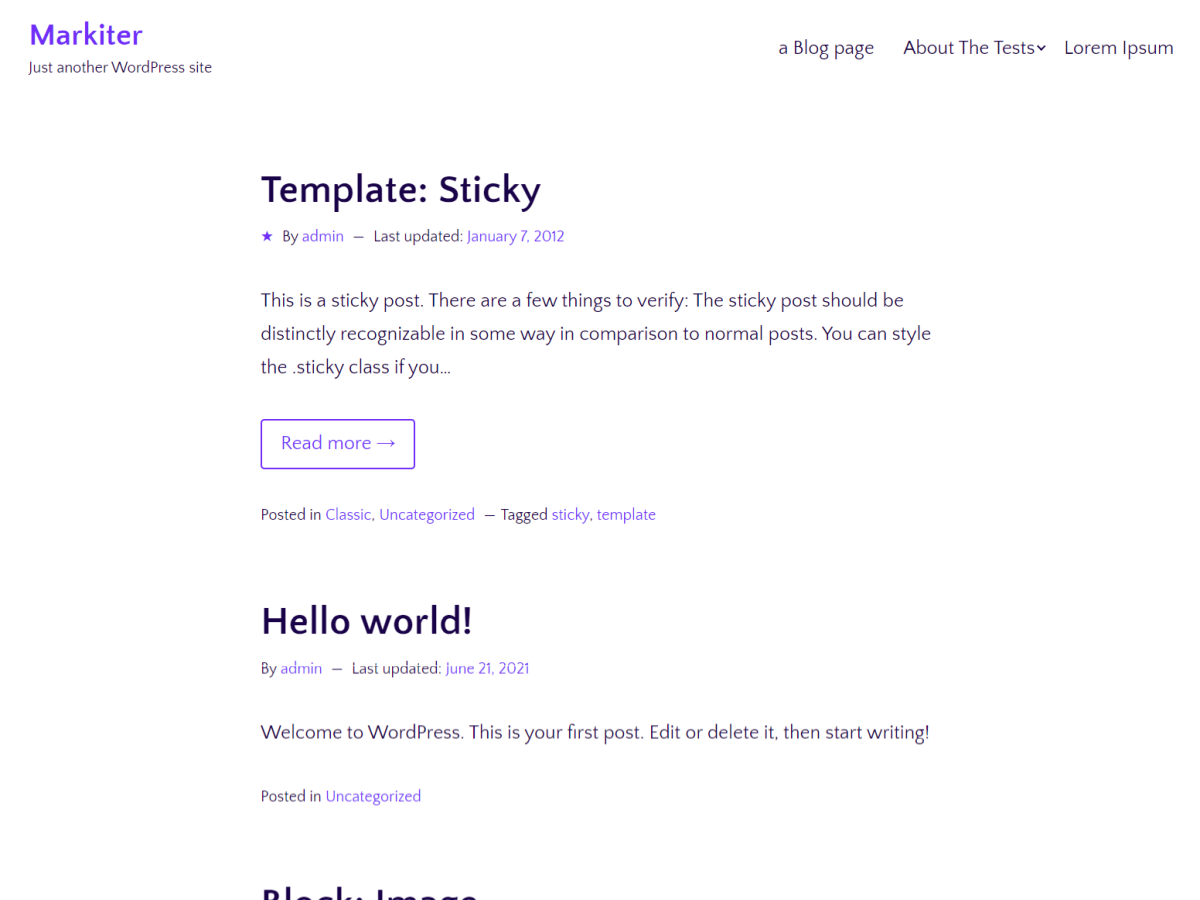
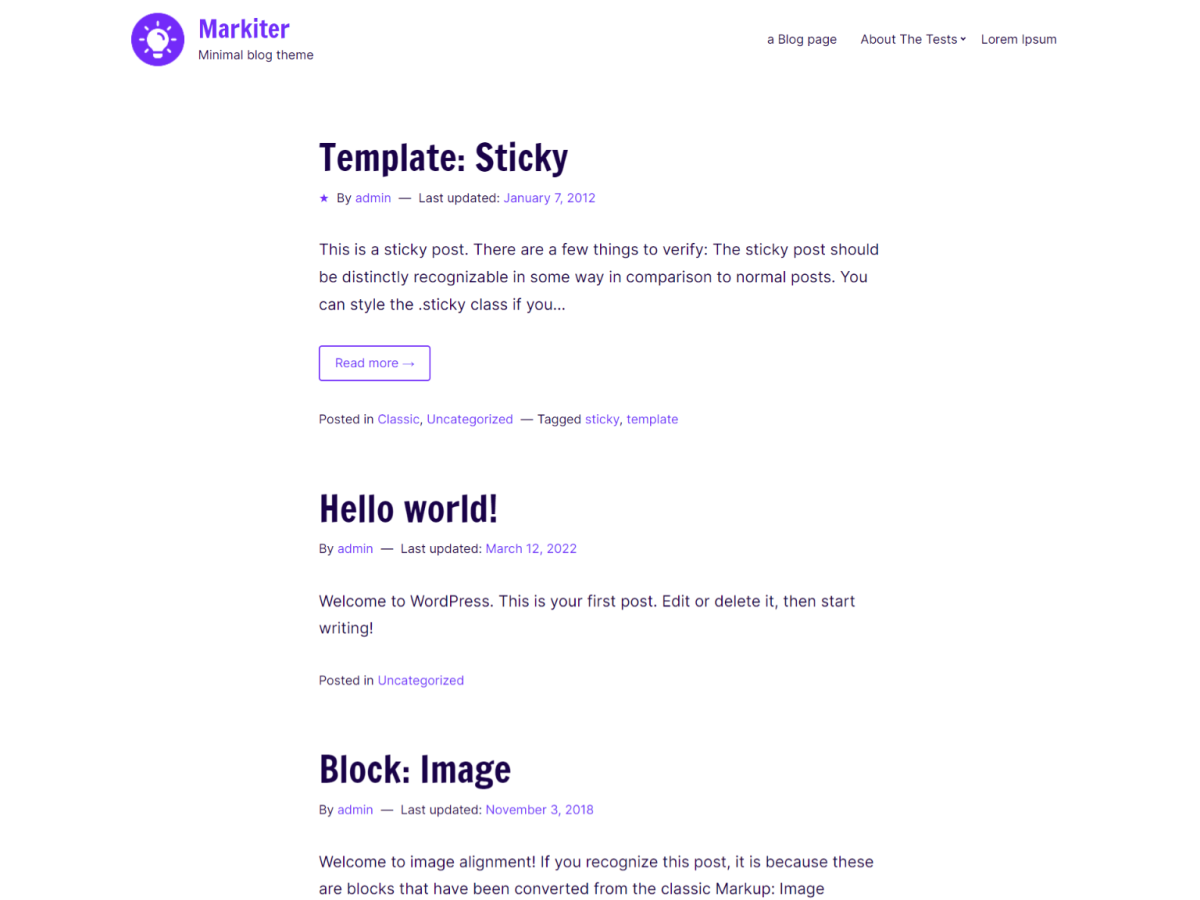
v2.3.4

diff --git a/style.css b/style.css
@@ -1,7 +1,7 @@
 @charset "UTF-8";
 /**
  * Theme name: 		Markiter
- * Version:			2.3.2
+ * Version:			2.3.4
  * Description:		Minimal theme for marketers & bloggers.
  * Tags: 			blog, one-column, sticky-post, accessibility-ready, translation-ready, custom-menu, editor-style, custom-colors, custom-logo, threaded-comments, block-styles, wide-blocks, footer-widgets, featured-images
  * Text domain: 	markiter
@@ -145,7 +145,7 @@ button, input, select, textarea {
   border-radius: 0.2rem;
   color: var(--markiter-fg-color);
   display: inline-block;
-  font-family: "Quattrocento Sans", serif;
+  font-family: "Inter", sans-serif;
   font-size: var(--markiter-normal-font-size);
   line-height: 1.75;
   padding: 0.4375rem 0.75rem;
@@ -189,7 +189,7 @@ textarea {
 body {
   background-color: var(--markiter-bg-color);
   color: var(--markiter-fg-color);
-  font-family: "Quattrocento Sans", serif;
+  font-family: "Inter", sans-serif;
   font-size: var(--markiter-normal-font-size);
   line-height: 1.75;
 }
@@ -275,7 +275,7 @@ figure img, .wp-caption img {
 }
 
 h1, h2, h3, h4, h5, h6 {
-  font-weight: bold;
+  font-family: "Francois One", serif;
 }
 
 h1, h2, h3 {
@@ -323,7 +323,7 @@ table td, table th {
  * -----------------------------------------------------------------------------
  */
 a {
-  border-bottom: 1px solid var(--markiter-accent-color);
+  border-bottom: 2px solid var(--markiter-accent-color);
   color: var(--markiter-accent-color);
   text-decoration: none;
 }
@@ -955,7 +955,7 @@ figure.wp-block-image img, .wp-block-image.wp-caption img {
   --markiter-normal-font-size: 1rem;
   --markiter-medium-font-size: 1.25rem;
   --markiter-large-font-size: 1.6rem;
-  --markiter-extra-large-font-size: 2.05rem;
+  --markiter-extra-large-font-size: 2.35rem;
 }
 
 /**
@@ -1000,7 +1000,7 @@ figure.wp-block-image img, .wp-block-image.wp-caption img {
  * -----------------------------------------------------------------------------
  */
 .site-footer {
-  border-top: 1px solid var(--markiter-border-color);
+  background-color: var(--markiter-alt-bg-color);
   font-size: var(--markiter-small-font-size);
 }
 .site-footer a {
@@ -1037,8 +1037,8 @@ figure.wp-block-image img, .wp-block-image.wp-caption img {
 }
 
 .site-title {
+  font-family: "Francois One", serif;
   font-size: var(--markiter-large-font-size);
-  font-weight: bold;
   line-height: 1.25;
 }
 
@@ -1095,6 +1095,9 @@ figure.wp-block-image img, .wp-block-image.wp-caption img {
 .main-navigation li {
   margin-bottom: 0;
   margin-top: 0;
+}
+.main-navigation li.current-menu-item > a, .main-navigation li.current-menu-parent > a {
+  font-weight: bold;
 }
 .main-navigation a {
   border-bottom: none;
@@ -1368,19 +1371,50 @@ figure.wp-block-image img, .wp-block-image.wp-caption img {
  * -----------------------------------------------------------------------------
  */
 .footer-widgets {
+  border-bottom: dotted 1px var(--markiter-bg-color);
   padding: 1.75rem;
+  padding-top: 3.5rem;
 }
-.footer-widgets .widget-title {
+@media (min-width: 768px) {
+  .footer-widgets .footer-widgets-wrap {
+    margin-left: auto;
+    margin-right: auto;
+    max-width: 63.5rem;
+    padding-left: 1.75rem;
+    padding-right: 1.75rem;
+    align-items: flex-start;
+    display: flex;
+    flex-direction: row;
+    justify-content: space-between;
+  }
+}
+.footer-widgets .widget-title, .footer-widgets h1, .footer-widgets h2, .footer-widgets h3, .footer-widgets h4, .footer-widgets h5, .footer-widgets h6 {
   margin-bottom: 0.4375rem;
+  font-size: var(--markiter-medium-font-size);
 }
-.footer-widgets .widget-title:last-child {
+.footer-widgets .widget-title:last-child, .footer-widgets h1:last-child, .footer-widgets h2:last-child, .footer-widgets h3:last-child, .footer-widgets h4:last-child, .footer-widgets h5:last-child, .footer-widgets h6:last-child {
   margin-bottom: 0;
+}
+.footer-widgets .widget {
+  margin-bottom: 1.75rem;
+}
+.footer-widgets .widget:last-child {
+  margin-bottom: 0;
+}
+@media (min-width: 768px) {
+  .footer-widgets .widget {
+    flex-basis: 0;
+    flex-grow: 1;
+    margin-right: 1.75rem;
+  }
+  .footer-widgets .widget:last-child {
+    margin-right: 0;
+  }
 }
 .footer-widgets .widget ol, .footer-widgets .widget ul {
   list-style: none;
-}
-.footer-widgets .widget > ol, .footer-widgets .widget > ul {
-  padding-left: 0;
+  margin: 0;
+  padding: 0;
 }
 
 /**
@@ -1390,9 +1424,9 @@ figure.wp-block-image img, .wp-block-image.wp-caption img {
 .pagination {
   margin-left: auto;
   margin-right: auto;
-  max-width: 36rem;
-  padding-left: 0;
-  padding-right: 0;
+  max-width: 39.5rem;
+  padding-left: 1.75rem;
+  padding-right: 1.75rem;
 }
 .pagination .page-numbers {
   background-color: var(--markiter-alt-bg-color);

diff --git a/scss/style.scss b/scss/style.scss
@@ -1,6 +1,6 @@
 /**
  * Theme name: 		Markiter
- * Version:			2.3.3
+ * Version:			2.3.4
  * Description:		Minimal theme for marketers & bloggers.
  * Tags: 			blog, one-column, sticky-post, accessibility-ready, translation-ready, custom-menu, editor-style, custom-colors, custom-logo, threaded-comments, block-styles, wide-blocks, footer-widgets, featured-images
  * Text domain: 	markiter
@@ -78,7 +78,7 @@
  * -----------------------------------------------------------------------------
  */
 .site-footer {
-	border-top: 1px solid get-color( border );
+	background-color: get-color( alt-bg );
 	font-size: get-font-size( small );
 
 	a {
@@ -113,8 +113,8 @@
 }
 
 .site-title {
+	font-family: $heading-font;
 	font-size: get-font-size( large );
-	font-weight: bold;
 	line-height: $heading-line-height;
 }
 
@@ -172,6 +172,11 @@
 	li {
 		margin-bottom: 0;
 		margin-top: 0;
+
+		&.current-menu-item > a,
+		&.current-menu-parent > a {
+			font-weight: bold;
+		}
 	}
 
 	a {
@@ -468,19 +473,42 @@
 }
 
 .footer-widgets {
+	border-bottom: dotted 1px get_color( bg );
 	padding: $white-space;
+	padding-top: $white-space * 2;
 
-	.widget-title {
+	.footer-widgets-wrap {
+		@include when-screen( md ) {
+			@include make-container( $container-extra-wide-max-width, $gutter-width / 2 );
+			align-items: flex-start;
+			display: flex;
+			flex-direction: row;
+			justify-content: space-between;
+		}
+	}
+
+	.widget-title, h1, h2, h3, h4, h5, h6 {
 		@include make-block( $white-space / 4 );
+		font-size: get-font-size( medium );
 	}
 
 	.widget {
-		ol, ul {
-			list-style: none;
+		@include make-block( $white-space );
+
+		@include when-screen( md ) {
+			flex-basis: 0;
+			flex-grow: 1;
+			margin-right: $white-space;
+
+			&:last-child {
+				margin-right: 0;
+			}
 		}
 
-		& > ol, & > ul {
-			padding-left: 0;
+		ol, ul {
+			list-style: none;
+			margin: 0;
+			padding: 0;
 		}
 	}
 }
@@ -490,7 +518,7 @@
  * -----------------------------------------------------------------------------
  */
 .pagination {
-	@include make-container( $container-max-width - $gutter-width, 0 );
+	@include make-container( $container-max-width, $white-space );
 
 	.page-numbers {
 		background-color: get-color( alt-bg );

diff --git a/style-editor.css b/style-editor.css
@@ -36,7 +36,7 @@
 }
 .editor-styles-wrapper > * {
   color: var(--markiter-fg-color);
-  font-family: "Quattrocento Sans", serif;
+  font-family: "Inter", sans-serif;
   font-size: var(--markiter-normal-font-size);
   line-height: 1.75;
 }
@@ -140,7 +140,7 @@
 .editor-styles-wrapper h4.wp-block,
 .editor-styles-wrapper h5.wp-block,
 .editor-styles-wrapper h6.wp-block {
-  font-weight: bold;
+  font-family: "Francois One", serif;
   margin-bottom: 17.5px;
 }
 .editor-styles-wrapper h1.wp-block,

diff --git a/scss/_settings.scss b/scss/_settings.scss
@@ -14,7 +14,8 @@ $colors: (
 // Typography settings
 // -----------------------------------------------------------------------------
 $code-font: 'Courier New', 'Courier', monospace;
-$text-font: 'Quattrocento Sans', serif;
+$heading-font: 'Francois One', serif;
+$text-font: 'Inter', sans-serif;
 
 $base-font-size: 100%;
 $base-font-size-md: 125%;
@@ -28,7 +29,7 @@ $font-sizes: (
 	normal: 1rem,
 	medium: 1.25rem,
 	large: 1.6rem,
-	extra-large: 2.05rem,
+	extra-large: 2.35rem,
 );
 
 //

diff --git a/scss/_typography.scss b/scss/_typography.scss
@@ -91,7 +91,7 @@ figure {
 }
 
 h1, h2, h3, h4, h5, h6 {
-	font-weight: bold;
+	font-family: $heading-font;
 }
 
 h1, h2, h3 {
@@ -140,7 +140,7 @@ table {
  * -----------------------------------------------------------------------------
  */
 a {
-	border-bottom: 1px solid get-color( accent );
+	border-bottom: 2px solid get-color( accent );
 	color: get-color( accent );
 	text-decoration: none;
 

diff --git a/scss/style-editor.scss b/scss/style-editor.scss
@@ -158,7 +158,7 @@ $font-sizes: (
 	h4.wp-block,
 	h5.wp-block,
 	h6.wp-block {
-		font-weight: bold;
+		font-family: $heading-font;
 		margin-bottom: $white-space / 2;
 	}
 

diff --git a/functions.php b/functions.php
@@ -107,7 +107,7 @@ function markiter_enqueue_scripts() {
 	$version = wp_get_theme()->get( 'Version' );
 
 	wp_enqueue_style( 'markiter-style', get_stylesheet_uri(), $dependancies, $version );
-	wp_enqueue_style( 'markiter-fonts', markiter_get_fonts_uri(), $dependancies, $version );
+	wp_enqueue_style( 'markiter-fonts', markiter_get_fonts_uri(), $dependancies, null );
 
 	if ( has_nav_menu( 'primary' ) ) {
 		wp_enqueue_script( 'markiter-navigation-menu', get_template_directory_uri() . '/js/navigation.js', array(), $version, true );
@@ -128,7 +128,7 @@ add_action( 'wp_enqueue_scripts', 'markiter_enqueue_scripts' );
 function markiter_block_editor_styles() {
 	$version = wp_get_theme()->get( 'Version' );
 
-	wp_enqueue_style( 'markiter-block-editor-fonts', markiter_get_fonts_uri(), array(), $version, 'all' );
+	wp_enqueue_style( 'markiter-block-editor-fonts', markiter_get_fonts_uri(), array(), null, 'all' );
 	wp_enqueue_style( 'markiter-block-editor-style', get_theme_file_uri( 'style-editor.css' ), array(), $version, 'all' );
 }
 
@@ -310,21 +310,12 @@ function markiter_get_the_date() {
  * @return string
  */
 function markiter_get_fonts_uri() {
-	$font_families = apply_filters(
-		'markiter_fonts_uri',
-		array(
-			'Quattrocento Sans:ital,wght@0,400;0,700;1,400;1,700',
+	return esc_url_raw(
+		apply_filters(
+			'markiter_font_source_url',
+			'https://fonts.googleapis.com/css2?family=Inter:wght@400;700&family=Francois+One&display=swap'
 		)
 	);
-
-	$query_args = array(
-		'family' => urlencode( implode( '|', $font_families ) ),
-		'subset' => urlencode( 'latin,latin-ext' ),
-	);
-
-	$fonts_url = add_query_arg( $query_args, 'https://fonts.googleapis.com/css2' );
-
-	return esc_url_raw( $fonts_url );
 }
 
 /**

diff --git a/footer.php b/footer.php
@@ -13,7 +13,9 @@
 	if ( ! is_page_template( 'no-header-page.php' ) && is_active_sidebar( 'footer' ) ) :
 	 	?>
 	 	<aside class="footer-widgets" role="complementary">
-	 		<?php dynamic_sidebar( 'footer' )?>
+			<div class="footer-widgets-wrap">
+	 			<?php dynamic_sidebar( 'footer' )?>
+			</div>
 	 	</aside>
 	 	<?php
 	 endif;
